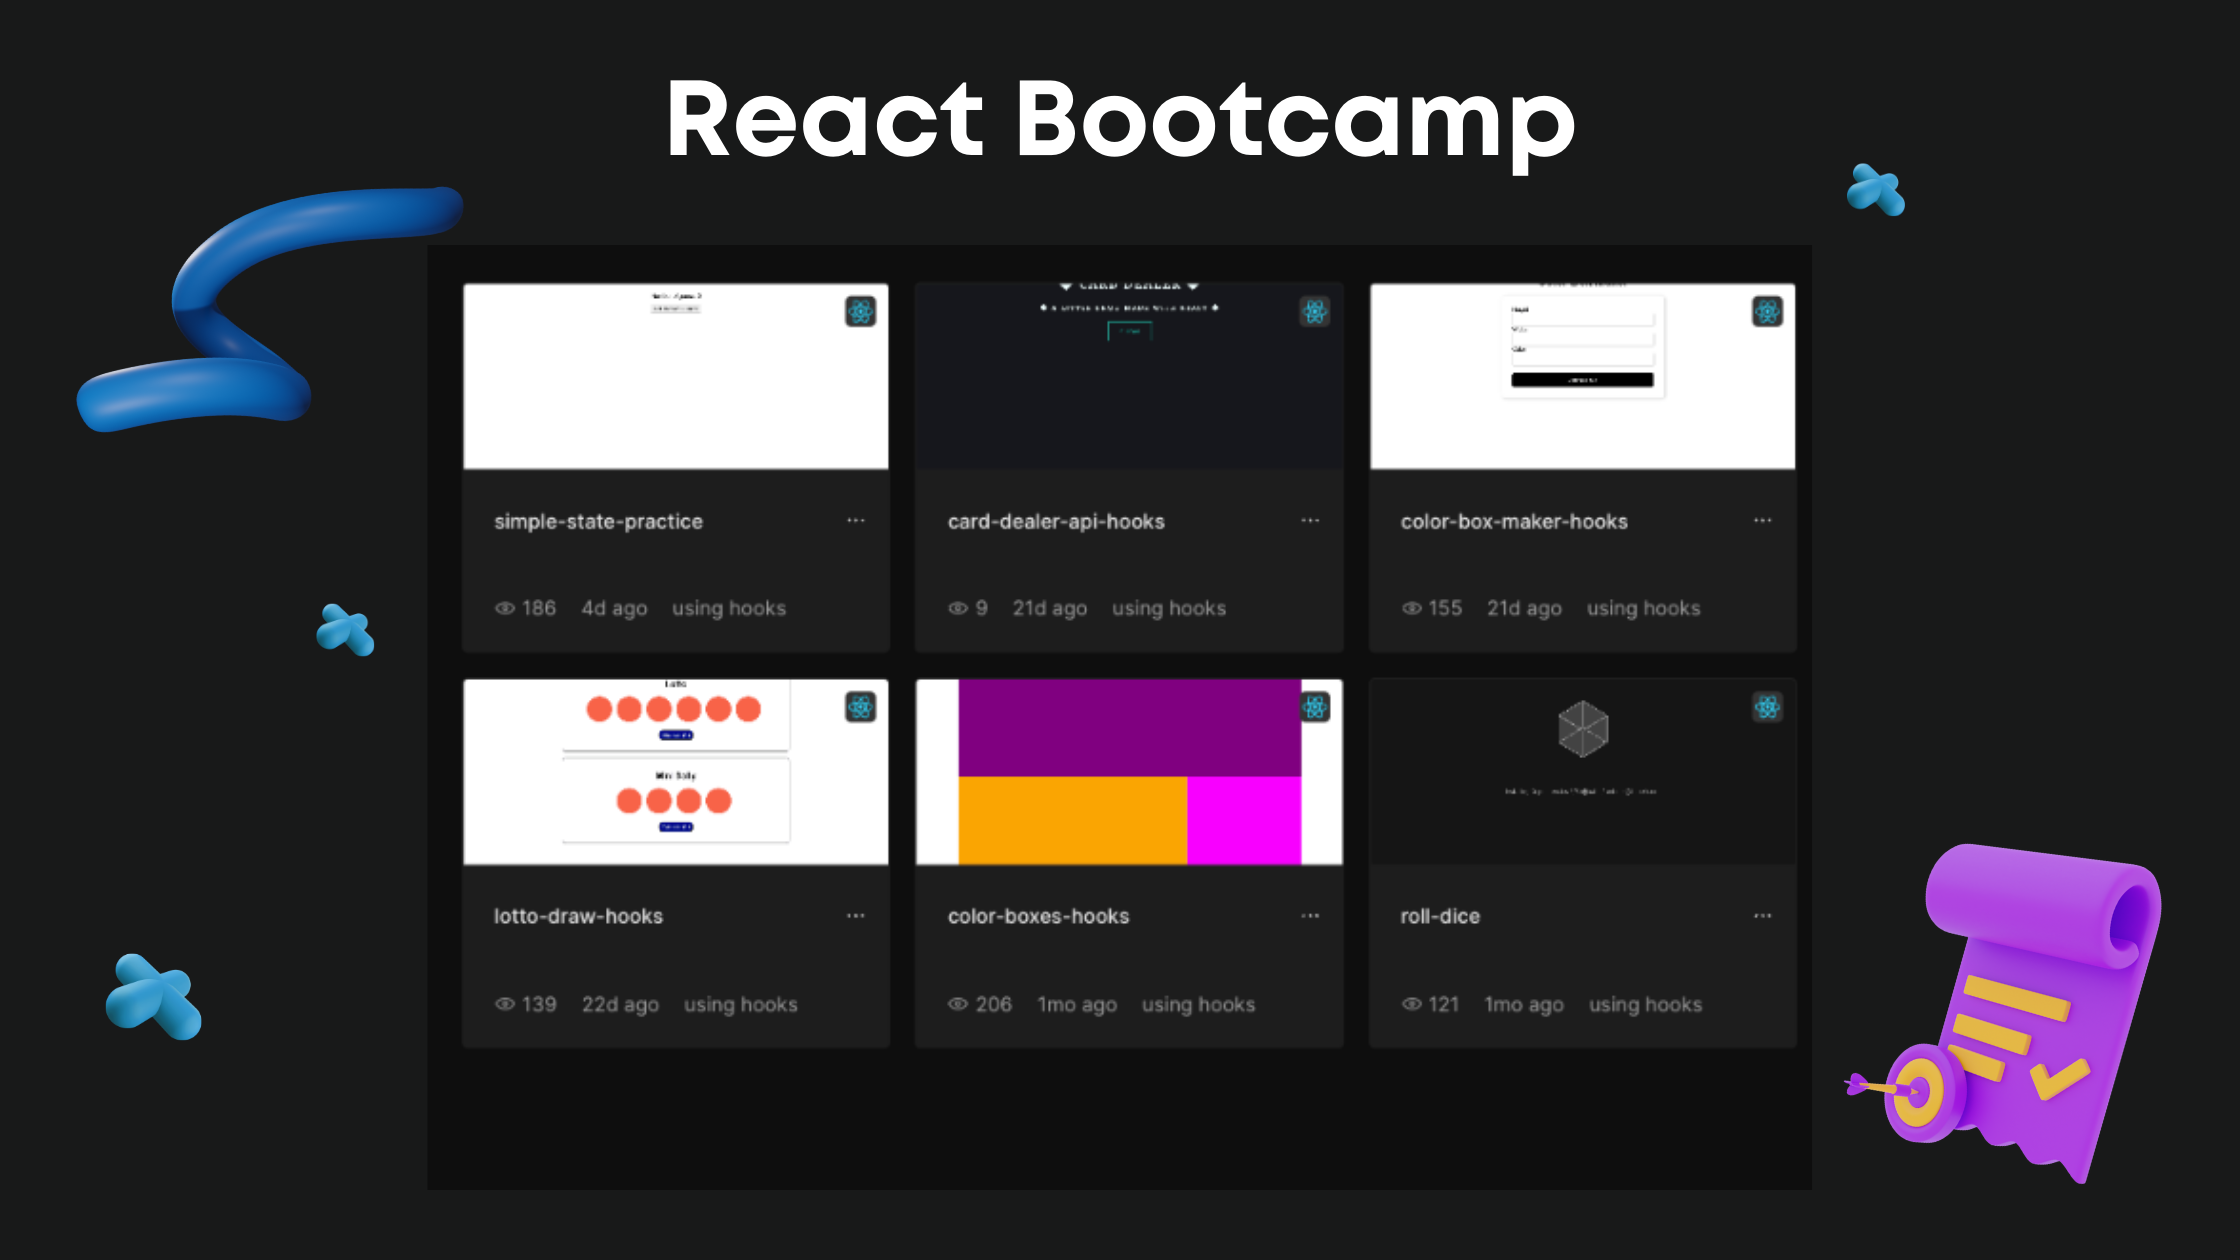
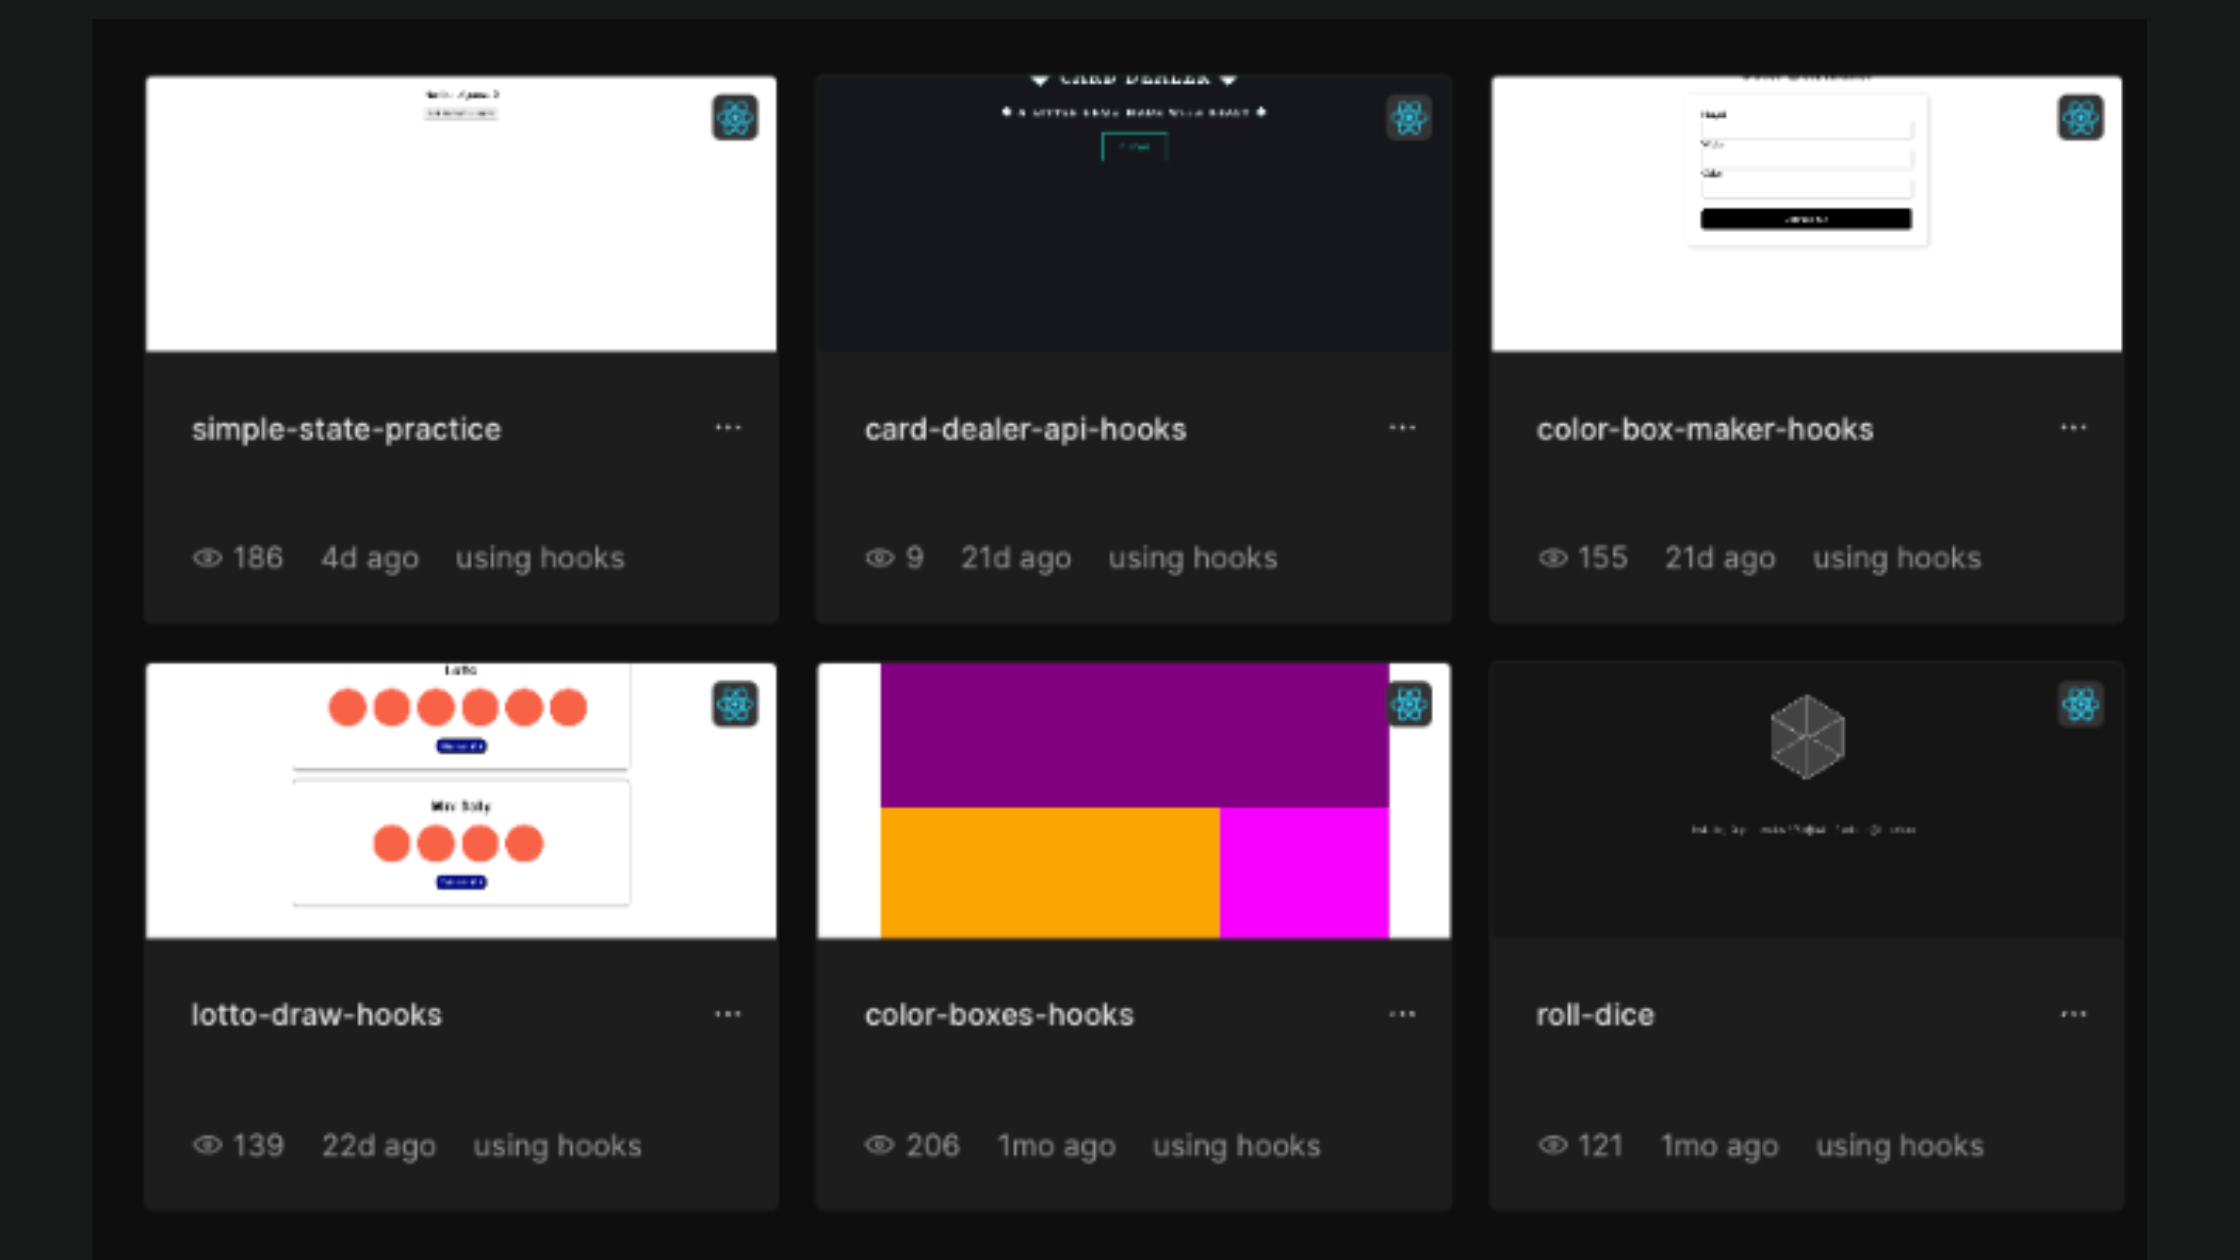
Add homepage modal and refactor some pages

diff --git a/src/components/Header.jsx b/src/components/Header.jsx
@@ -2,6 +2,7 @@ import { useState } from "react";
 import { NavLink, Link } from "react-router-dom";
 import { IoMenu } from "react-icons/io5";
 import { ImProfile } from "react-icons/im";
+import { FaRegWindowClose } from "react-icons/fa";
 
 import { links } from "../constants";
 
@@ -34,7 +35,7 @@ const NavLinks = ({ handleClick }) => (
         to={item.to}
         className={({ isActive }) => {
           return (
-            "flex flex-col justify-center items-start px-6 my-2 font-shortstack w-full h-11 text-sm md:text-base rounded  hover:border-riptide-accent hover:border hover:shadow-nav-shadow " +
+            "flex flex-col justify-center items-start px-6 my-2 font-shortstack w-full h-11 text-sm md:text-base rounded hover:border-riptide-accent hover:border hover:shadow-nav-shadow " +
             (isActive
               ? "bg-gradient-to-r from-riptide-accent to-riptide-bright text-bunker-gray-800"
               : "bg-bunker-gray-700 text-whisper-white hover:bg-bunker-gray-800")
@@ -86,11 +87,15 @@ const Header = () => {
       {toggleNavMenu && (
         <>
           <div className="absolute w-64 sm:w-72 lg:w-80 bg-bunker-gray-900 bg-opacity-80 border border-riptide-accent shadow-card-shadow top-24 md:top-32 left-2 lg:left-16 xl:left-28 p-8 md:p-10 rounded-xl z-50">
+            <FaRegWindowClose
+              className="w-5 h-5 mb-5 text-bunker-gray-50 cursor-pointer"
+              onClick={() => setToggleNavMenu(!toggleNavMenu)}
+            />
             <Logo />
             <NavLinks />
           </div>
           <div
-            onClick={(e) => setToggleNavMenu(!toggleNavMenu)}
+            onClick={() => setToggleNavMenu(!toggleNavMenu)}
             className="absolute top-0 w-full h-screen bg-black bg-opacity-40 z-40"
           />
         </>

diff --git a/src/components/HomeModal.jsx b/src/components/HomeModal.jsx
@@ -1,0 +1,39 @@
+import { MdOutlineClose } from "react-icons/md";
+
+//----------------------------------------------------------
+
+const HomeModal = ({ handleClose }) => {
+  return (
+    <div className="flex absolute inset-0 justify-center items-center h-screen font-outfit text-bunker-gray-800">
+      <div className="flex flex-col justify-center items-start sm:items-end relative w-full md:w-9/12 lg:w-7/12 xl:w-5/12 mx-5 px-6 pt-6 pb-16 bg-white rounded-xl z-[100] bg-smiley-3d bg-cover bg-right md:bg-left">
+        <MdOutlineClose
+          className="w-7 h-7 cursor-pointer"
+          onClick={handleClose}
+        />
+        <div className="w-5/6 md:w-3/6 pb-28 lg:pb-10">
+          <h1 className="text-3xl font-bold text-left sm:text-right pt-3">
+            Welcome to my personal website
+          </h1>
+          <p className="text-left sm:text-right pt-3 pb-10">
+            Thank you for visiting!
+            <br />
+            Please note that my homepage is still under development, so it is
+            empty for now. Feel free to browse other pages.
+          </p>
+        </div>
+        <a
+          href="https://www.freepik.com/free-photo/world-smile-day-emojis-arrangement_16138147.htm#page=2&query=smile&position=31&from_view=keyword"
+          aria-label="freepik"
+          target="_blank"
+          rel="noreferrer noopener"
+          className="absolute bottom-3 right-32 lg:right-16 text-xs"
+        >
+          Image by Freepik
+        </a>
+      </div>
+      <div className="absolute inset-0 bg-bunker-gray-900 bg-opacity-60 z-40" />
+    </div>
+  );
+};
+
+export default HomeModal;

diff --git a/src/pages/Home.jsx b/src/pages/Home.jsx
@@ -1,16 +1,24 @@
-import Header from "../components/Header";
+import { useState } from "react";
+
 import useDocumentTitle from "../hooks/useDocumentTitle";
+import Header from "../components/Header";
+import HomeModal from "../components/HomeModal";
 
 //----------------------------------------------------------
 
 const Home = () => {
+  const [modalIsOpen, setModalIsOpen] = useState(true);
+
   useDocumentTitle("ArchitechRowee");
 
   return (
-    <>
+    <div className="h-full md:h-screen overflow-hidden">
+      {modalIsOpen && (
+        <HomeModal handleClose={() => setModalIsOpen(!modalIsOpen)} />
+      )}
       <Header />
       <main className="h-screen overflow-hidden"></main>
-    </>
+    </div>
   );
 };
 

diff --git a/src/assets/index.js b/src/assets/index.js
@@ -20,7 +20,7 @@ import affphotoLogo from "./tech-stack/affphoto.png";
 
 //? ======================== card image assets ======================== ?//
 import reactCodesandboxImg from "./react-bootcamp/react-in-codesandbox.png";
-import reactBootcampImg from "./react-bootcamp/react-bootcamp-projects.gif";
+import reactBootcampImg from "./react-bootcamp/react-bootcamp-projects.png";
 
 //? ===================== react bootcamp assets ===================== ?//
 import pokedexDemo from "./react-bootcamp/pokedex-demo.gif";

diff --git a/tailwind.config.js b/tailwind.config.js
@@ -53,6 +53,7 @@ module.exports = {
       },
       backgroundImage: {
         "mainbg-image": "url('./assets/bg/cosmos-bg.jpg')",
+        "smiley-3d": "url('./assets/general/smiley-3d.jpg')",
       },
     },
   },
